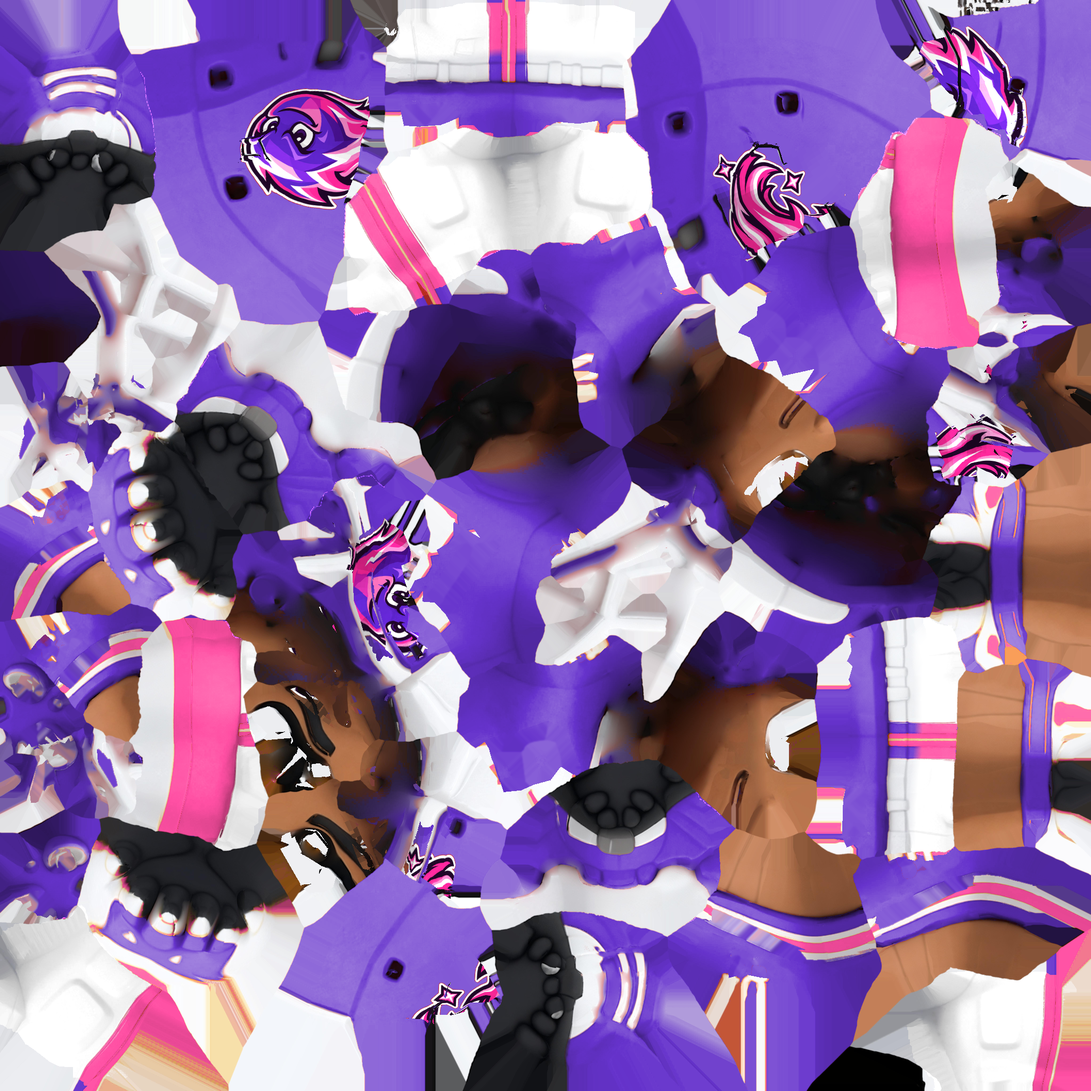
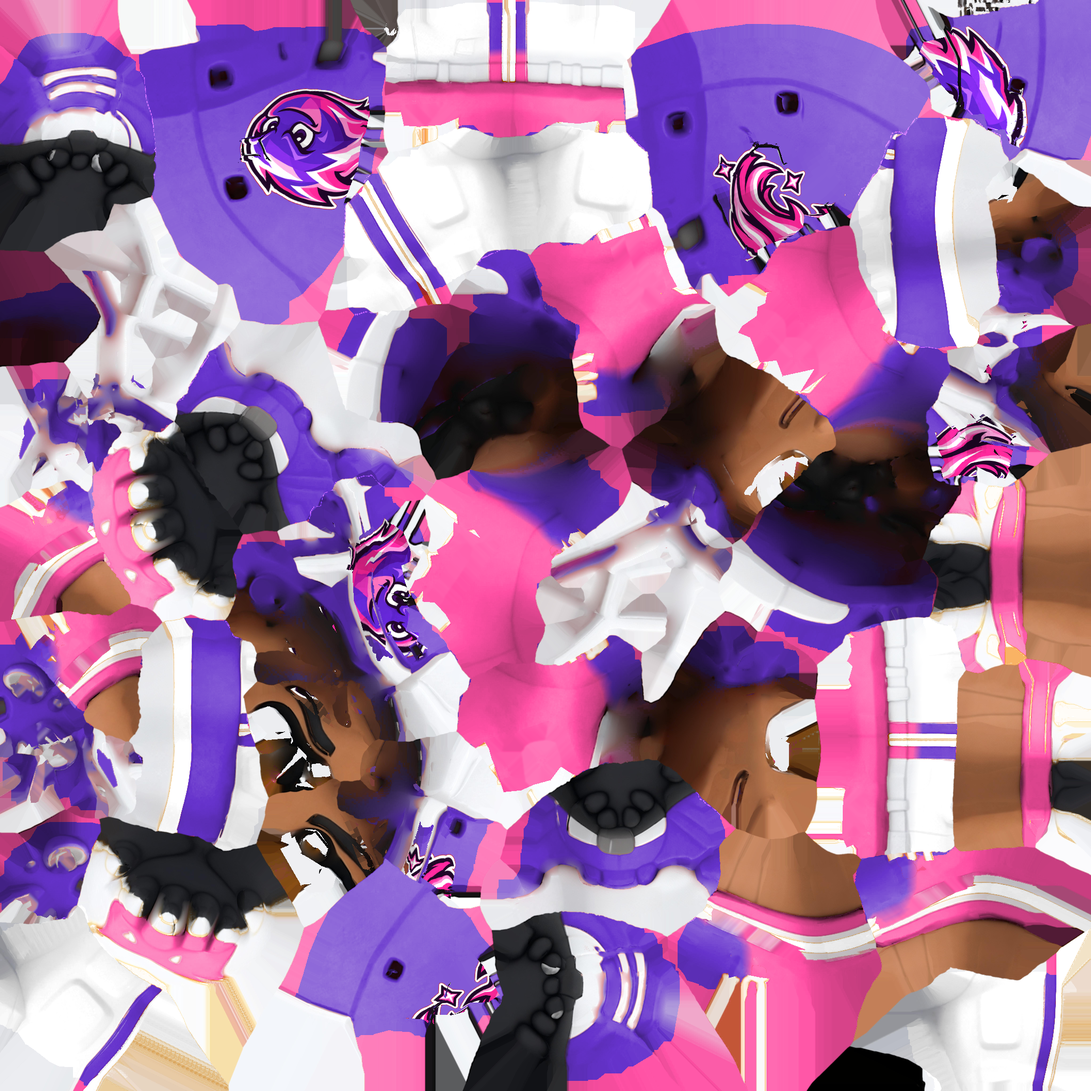
Comets in hot-pink jerseys so they stand apart from the Cobras; TE shoulders keep the jersey colour
CMT: pink jerseys with white trim, white pants with purple stripes, white numbers edged purple; team colour pink.
kits.json: a TE region (helmet line 0.72) so the helmet colour no longer bands the TE's shoulders (CMT and COB TE rebuilt).

Claude-Session: https://claude.ai/code/session_0112BkhwZ5QqFySj92BjwkyQ

diff --git a/tools/teams/README.md b/tools/teams/README.md
@@ -19,15 +19,16 @@ only: `python3 tools/teams/build.py <work dir> [CAC WHL]`.
 - A model added after the source revision (`SRC_LATER` in build.py, e.g. LeanLB): put its red map as `marks.py` left it
   (numbers and irises painted out, the old helmet decal still on) in `<work dir>/src/<folder>/`. `MODELS=LeanLB` builds
   only that model's maps. A `regions` entry named after a model folder overrides `player` for it (LeanLB's shoulder pads
-  reach above the usual helmet line; the Linebacker's too, or a dark helmet colour bands its shoulders).
+  reach above the usual helmet line; the Linebacker's and TE's too, or the helmet colour bands their shoulders).
 
 The Bats (`BAT`) and Snowbirds (`SNB`): marks from Kenny's mascot-only pictures (`emblems/BAT.png` the crimson-winged
 bat, `emblems/SNB.png` the owl helmet emblem); the pictures with the team name under them are the join screen's.
 Black helmets, crimson jerseys, black pants, white numbers; all white with ice-blue stripes and navy numbers.
 
 The Comets (`CMT`) and Cobras (`COB`): marks from Kenny's wordless emblems (`emblems/CMT.png` the pink-tailed comet,
-`emblems/COB.png` the coiled cobra); the wordmark pictures are the join screen's (`wordmarks.py`). Purple helmets and
-jerseys with hot-pink trim, white pants with pink stripes, white numbers edged pink; near-black helmets and pants, purple
+`emblems/COB.png` the coiled cobra); the wordmark pictures are the join screen's (`wordmarks.py`). Purple helmets,
+hot-pink jerseys with white trim, white pants with purple stripes, white numbers edged purple (pink, not purple, so
+they stand apart from the Cobras); near-black helmets and pants, purple
 jerseys, electric-lime trim and stripes, lime numbers edged near-black. LeanLB's red source map (`<work>/src/LeanLB/`) is
 the 0.jpg colour map inside Hi3D_Untitled_allparts_20261028_084912.fbx at 2048 px, with LeanLB_BaseColor.png's texels
 copied in wherever LeanLB_Marks.png has a zone (numbers and irises painted out), the old decal still on.
